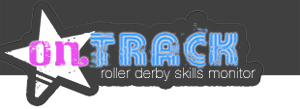
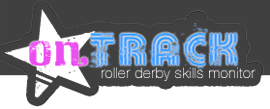
My last update for awhile!  I think I've covered everything…this includes the logout button on the menu page and the back and home buttons on the skills, rules, and endurance sections.

diff --git a/skills.html b/skills.html
@@ -14,19 +14,25 @@
 	
     <div data-role="page" data-theme="a">
 		
-        <a href="menu.html"><div id="logoheader"></div><div id="iconstrip"></div></a><!--places logo and strip at top and links to menu.html-->
+        <a href="menu.html"><div id="logoheader"></div></a><div id="iconstrip"></div><!--places logo and strip at top and links to menu.html-->
+        
+        <div id="topheadericon">
+        	<a href="#" data-rel="back" data-role="button" data-icon="back" data-iconpos="notext" data-mini="true" data-inline="true">Back</a>
+            <a href="menu.html" data-role="button" data-icon="home" data-iconpos="notext" data-mini="true" data-inline="true">Home</a>
+        </div>
+        
 		<div data-role="header" data-position="inline">
 		</div><!--end of header -->
 
         <div data-role="content" data-theme="a" id="pagecontent"><!--container with transparent grey background-->
         
-            <h2>Skills List</h2>
-            <p>In order to pass the skills test, you must be able to perform all of these skills.</p>
+           	<img src="images/skillstesttxt.png" width="118" height="30"><br>
+            In order to pass the skills test, you must be able to perform all of these skills.<br><br>
 
                 <ul data-role="listview" data-filter="true" >
     
                     <div  data-mini="true" data-theme="a" data-inline="true">
-                        <ul data-role="list-divider" data-theme="a">Basic Skating Skills	
+                        <ul data-role="list-divider" data-theme="a"><h3>Basic Skating Skills</h3>	
                             <li><label><input type="checkbox" name="checkbox-0" /> Crossovers </label></li>
                             <li><label><input type="checkbox" name="checkbox-1" /> T-Stop </label></li>
                             <li><label><input type="checkbox" name="checkbox-2" /> One-foot glides down straightaways </label></li>
@@ -35,7 +41,7 @@
                     </div><!--first listview-->
         
                     <div  data-mini="true" data-theme="a" >
-                        <ul data-role="list-divider" data-theme="a">Falls
+                        <ul data-role="list-divider" data-theme="a"><h3>Falls</h3>
                             <li><label><input type="checkbox" name="checkbox-4" /> Single Knee Falls </label></li>
                             <li><label><input type="checkbox" name="checkbox-5" /> Double Knee Falls </label></li>
                             <li><label><input type="checkbox" name="checkbox-6" /> Figure 4 / Baseball Slide </label></li>

diff --git a/themes/derby.css b/themes/derby.css
@@ -26,10 +26,11 @@ ul {
 	position:fixed;
 	top:-25px;
 	left:-25px;
-	width:300px;
+	width:270px;
 	height:109px;
 	z-index:500;
 	background-image:url(../images/Icon2.png);
+	background-repeat:no-repeat;
 	/*-moz-border-radius:10px;
 	-webkit-border-radius:10px;
 	border-radius:10px;
@@ -43,11 +44,28 @@ ul {
 	position:fixed;
 	top:-25px;
 	height:75px;
-	left:275px;
+	left:245px;
 	width:100%;
 	background-size: 11px 75px;
-	z-index:500;
+	z-index:499;
 	background-image:url(../images/logostrip.png);
+}
+
+#topheadericon {
+	position:fixed;
+	right:5px;
+	top: 5px;
+	z-index:500;
+	font-size:9px;
+	
+}
+
+#topheadericon a {
+	color:#eee;
+	text-decoration:none;
+	z-index:500;
+	font-family:Helvetica, Arial, sans-serif;
+	font-size:13px;
 }
 	
 
@@ -64,22 +82,13 @@ ul {
 	#welcometext {
 		position:fixed;
 		top:135px;
-	}
-	
-	#welcometext img {
-		height:auto;
-		width:39%;
+		left:20px;
 	}
 		
 	#rollergirlimg {
 		position:absolute;
-		top:60px;
+		top:55px;
 		right:0px;
-	}
-	
-	#rollergirlimg img {
-		height:auto;
-		width:100%;
 	}
 	
 	#freshmeattxt {
@@ -97,7 +106,7 @@ ul {
 	#navitems {
 		position:fixed;
 		top:135px;
-		left:20px;
+		left:10px;
 		color:#FFFFFF;
 		font-size:0.9em;
 		width:150px;
@@ -111,7 +120,7 @@ ul {
 		top:80px;
 		/*left:10px;*/
 			min-width:240px;
-		margin: 0px auto 150px;
+		margin: 0px auto 100px;
 		padding: -40px 15px;
 		width: 80%;
 		-moz-border-radius:10px;
@@ -138,30 +147,25 @@ ul {
 	#welcometext {
 		position:fixed;
 		top:90px;
-		left:75px;
-	}
-	
-	#welcometext img {
-		height:auto;
-		width:39%;
+		left:85px;
 	}
 	
 	#rollergirlimg {
 	position:fixed;
 	top:50px;
-	left:200px;
+	left:220px;
 	}
 	
 	#rollergirlimg img {
-		height:auto;
-		width:70%;
+		height:277px;
+		width:177px;
 	}
 	
 	
 	#freshmeattxt {
 		position:fixed;
 		top:115px;
-		left:80px;
+		left:85px;
 		color:#FFFFFF;
 		font-size:0.9em;
 		width:190px;
@@ -172,7 +176,7 @@ ul {
 	
 	#navitems {
 		position:fixed;
-		top:80px;
+		top:70px;
 		left:80px;
 		color:#FFFFFF;
 		font-size:0.9em;
@@ -214,6 +218,14 @@ ul {
 	margin-right:auto;
 	}
 
+}
+
+#navitems li {
+	/*line-height:50px;*/
+	margin-left:-10px;
+	width:150px;
+	margin-top:-10px;
+	margin-bottom: 20px;
 }
 
 .ui-bar-a .ui-link-inherit {

diff --git a/endurance.html b/endurance.html
@@ -17,25 +17,28 @@
 <body>
 	<div data-role="page" data-theme="a">
 		
-        <a href="menu.html"><div id="logoheader"></div><div id="iconstrip"></div></a><!--places logo and strip at top and links to menu.html-->
+        <a href="menu.html"><div id="logoheader"></div></a><div id="iconstrip"></div><!--places logo and strip at top and links to menu.html-->
 		
+        <div id="topheadericon">
+        	<a href="#" data-rel="back" data-role="button" data-icon="back" data-iconpos="notext" data-mini="true" data-inline="true">Back</a>
+            <a href="menu.html" data-role="button" data-icon="home" data-iconpos="notext" data-mini="true" data-inline="true">Home</a>
+        </div>
+        
         <div data-role="header" data-position="inline">
 		</div><!--end of header -->
         
         <div data-role="content" data-theme="a" id="pagecontent"><!--container with transparent grey background-->
-            <h2>Endurance</h2>
-            <p>You must skate 25 laps in 5 minutes to pass the skills test.  Record your progress here.</p>
+       
+            <img src="images/endurancetesttxt.png" width="196" height="34" alt="Endurance Test"><br>
+			You must skate 25 laps in 5 minutes to pass the skills test.  Record your progress here.<br><br>
     
                 <label for="mydate">Date:</label>
 
-                    <input name="mydate" id="mydate" type="date" data-role="datebox"
-                            data-options='{"mode": "calbox"}' data-inline="true">
-            
-
-                <form>
+                    <input name="mydate" id="mydate" type="date" data-role="datebox" data-options='{"mode": "calbox"}' data-inline="true"><br>
+                 <form>
                  <label for="slider-number">Number of laps:</label>
                     <input type="range" name="slider-number" id="slider-number" value="20" min="0" max="35" step="0.5"  />
-                </form>
+                </form><br>
 
                 <form>
                 <label for="slider-time">Time</label>

diff --git a/menu.html b/menu.html
@@ -15,19 +15,24 @@
 		        
     <div data-role="page" id="welcome" data-theme="a">
     
-		<a href="menu.html"><div id="logoheader"></div><div id="iconstrip"></div></a><!--places logo and strip at top and links to menu.html-->
+		<div id="logoheader"></div><div id="iconstrip"></div><!--places logo and strip at top and links to menu.html-->
+        <div id="topheadericon">
+        	<a href="index.html" data-role="button" data-icon="delete" data-iconpos="notext" data-mini="true" data-inline="true">Delete</a>
+        </div>
 		
         <div data-role="header" data-position="inline">
-        
+        	
         </div><!--end of header -->
 			
         <div data-role="content" data-theme="a">
         	<div id="maincontent">
         		<div id="rollergirlimg"><img src="images/rollergirl.png" /></div><!--end of rollergirl-->
         		<div id="navitems"><p>What do you want to do today?</p>
-                    <a href="rules.html" data-role="button" data-mini="true" data-icon="arrow-r">Rules Test</a>
-                    <a href="skills.html" data-role="button" data-mini="true" data-icon="arrow-r">Skills Test</a>
-                    <a href="endurance.html" data-role="button" data-mini="true" data-icon="arrow-r">Endurance Test</a>
+                    <ul>
+                        <li><a href="rules.html" data-role="button" data-mini="true" data-icon="arrow-r">Rules Test</a></li>
+                        <li><a href="skills.html" data-role="button" data-mini="true" data-icon="arrow-r">Skills Test</a></li>
+                        <li><a href="endurance.html" data-role="button" data-mini="true" data-icon="arrow-r">Endurance Test</a></li>
+                    </ul>
           		</div><!--end of navitems-->
         	</div><!--end of maincontent-->
         </div><!--end of content-->

diff --git a/rules.html b/rules.html
@@ -15,15 +15,19 @@
 	
     <div data-role="page" data-theme="a">
 		
-		<a href="menu.html"><div id="logoheader"></div><div id="iconstrip"></div></a><!--places logo and strip at top and links to menu.html-->
+		<a href="menu.html"><div id="logoheader"></div></a><div id="iconstrip"></div><!--places logo and strip at top and links to menu.html-->
+        <div id="topheadericon">
+        	<a href="#" data-rel="back" data-role="button" data-icon="back" data-iconpos="notext" data-mini="true" data-inline="true">Back</a>
+            <a href="menu.html" data-role="button" data-icon="home" data-iconpos="notext" data-mini="true" data-inline="true">Home</a>
+        </div>
         
         <div data-role="header" data-position="inline">
         </div><!--end of header -->
 
 			<div data-role="content" data-theme="a" id="pagecontent"><!--container with transparent grey background-->
 				
-                <h2>Rules Test</h2>
-                <h3>Which part of the body is considered an illegal blocking zone?</h3>
+                <img src="images/rulestesttxt.png" width="112" height="30" alt="Rules Test">
+              <h3>Which part of the body is considered an illegal blocking zone?</h3>
                     <ul>
                         <li>a. Chest</li>
                         <li>b. Upper arm</li>

diff --git a/index.html b/index.html
@@ -15,7 +15,7 @@
 		        
     <div data-role="page" id="welcome" data-theme="a">
 
-		<a href="menu.html"><div id="logoheader"></div><div id="iconstrip"></div></a><!--places logo and strip at top and links to menu.html-->
+		<div id="logoheader"></div><div id="iconstrip"></div><!--places logo and strip at top and links to menu.html-->
         
         <div data-role="header" data-position="inline">
         </div><!--end of header -->
